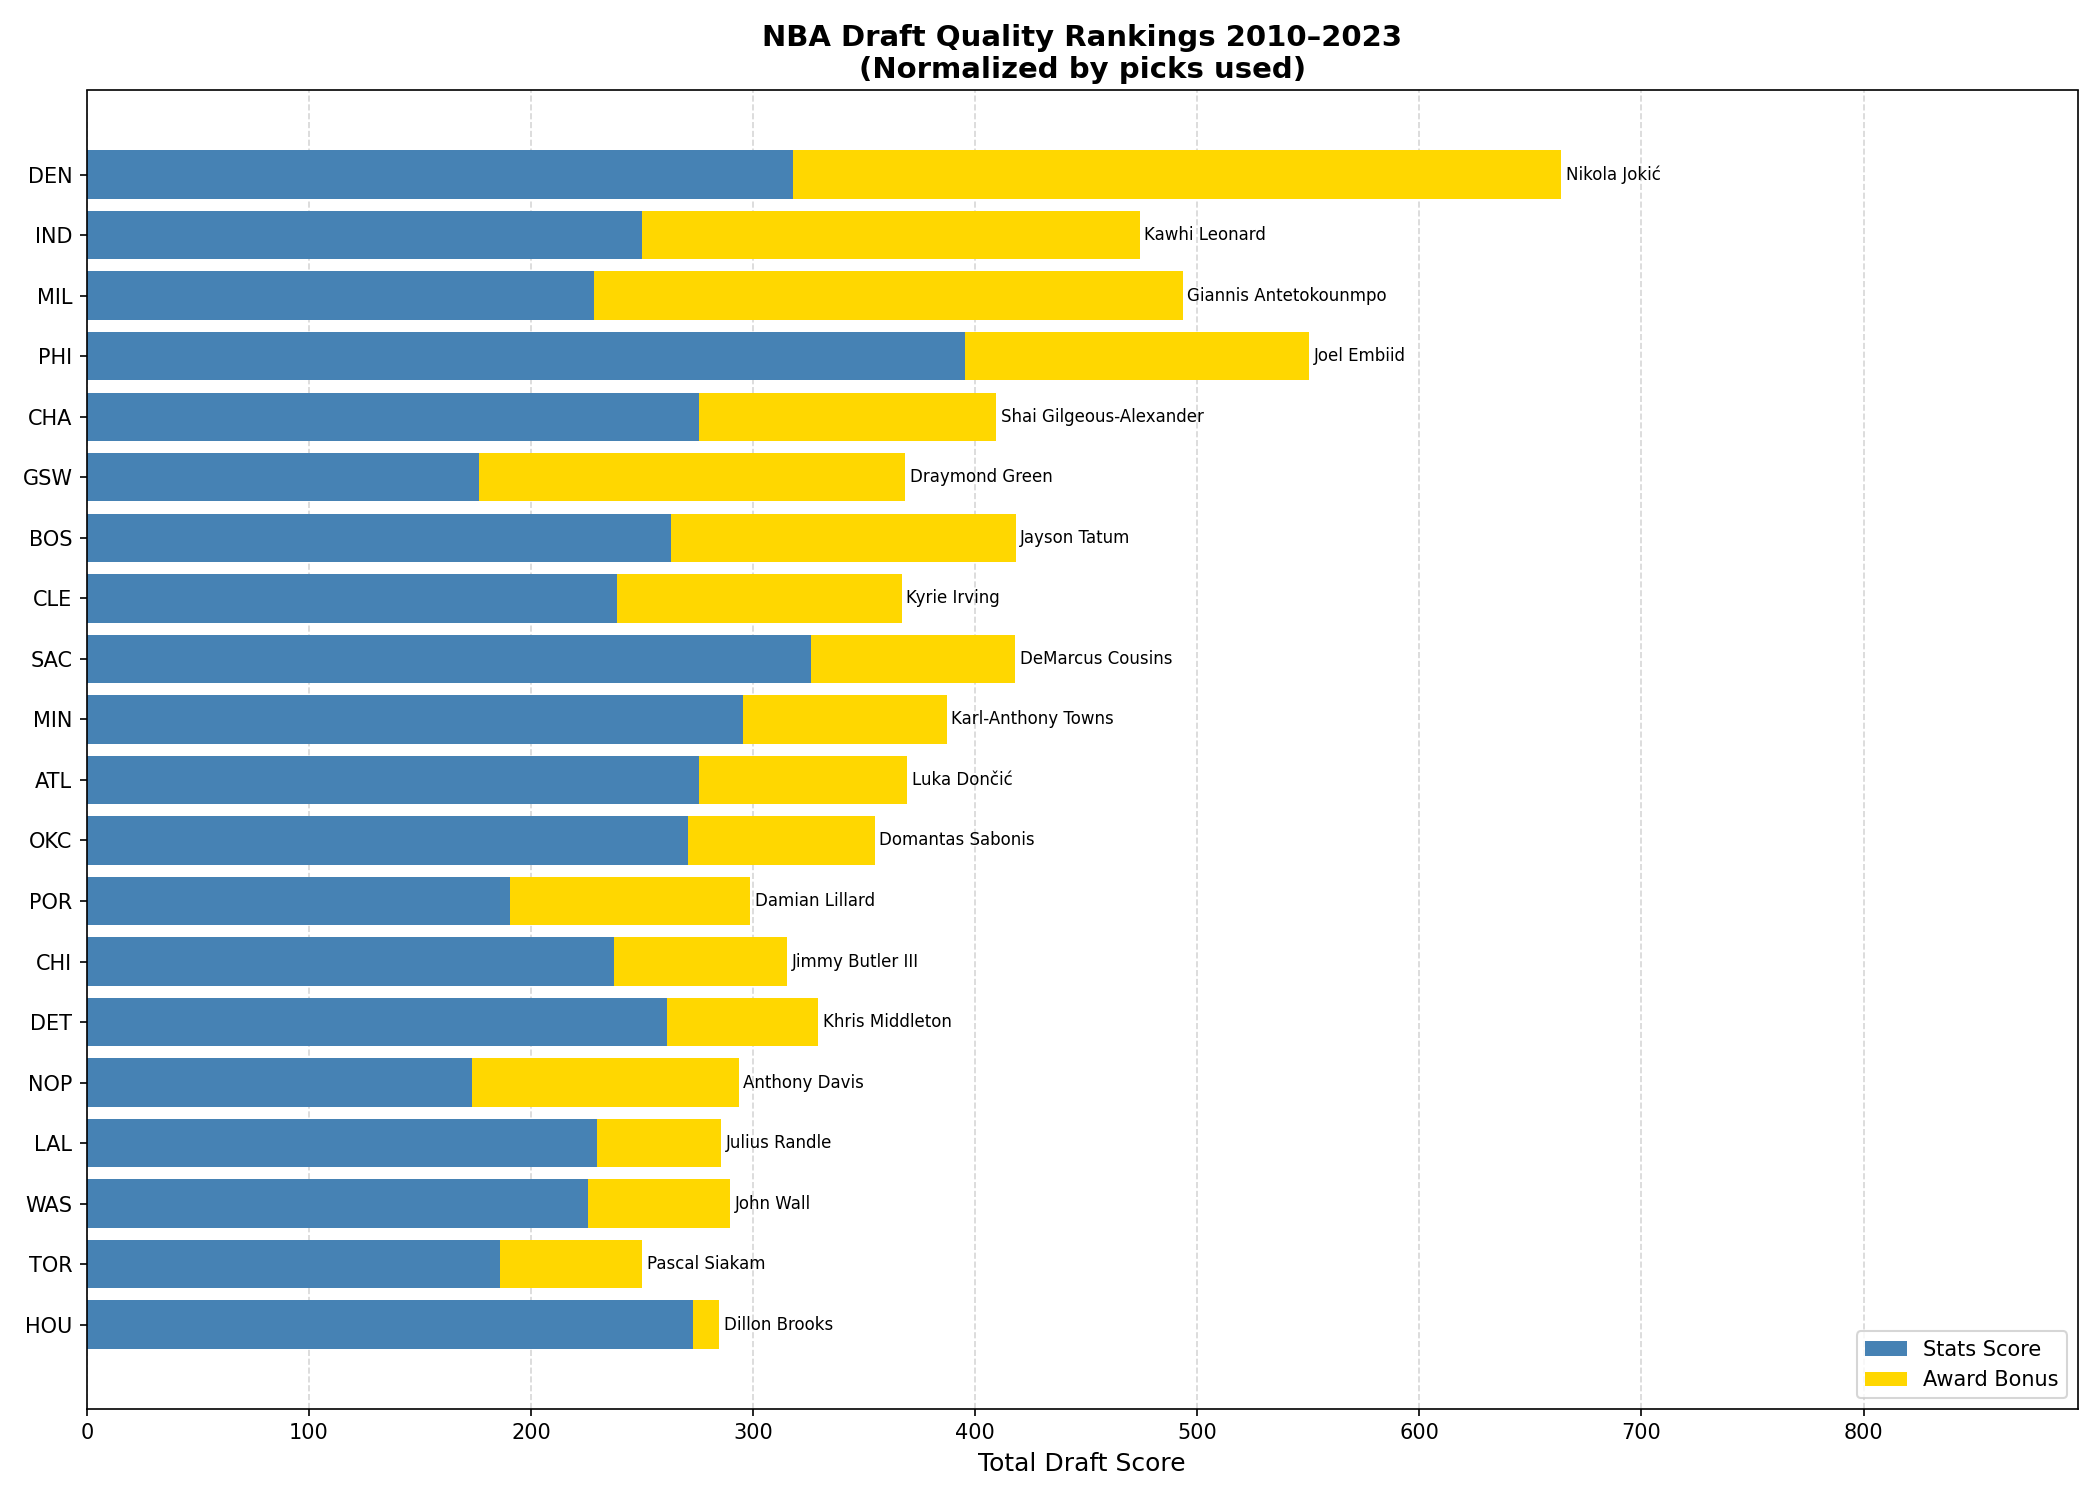
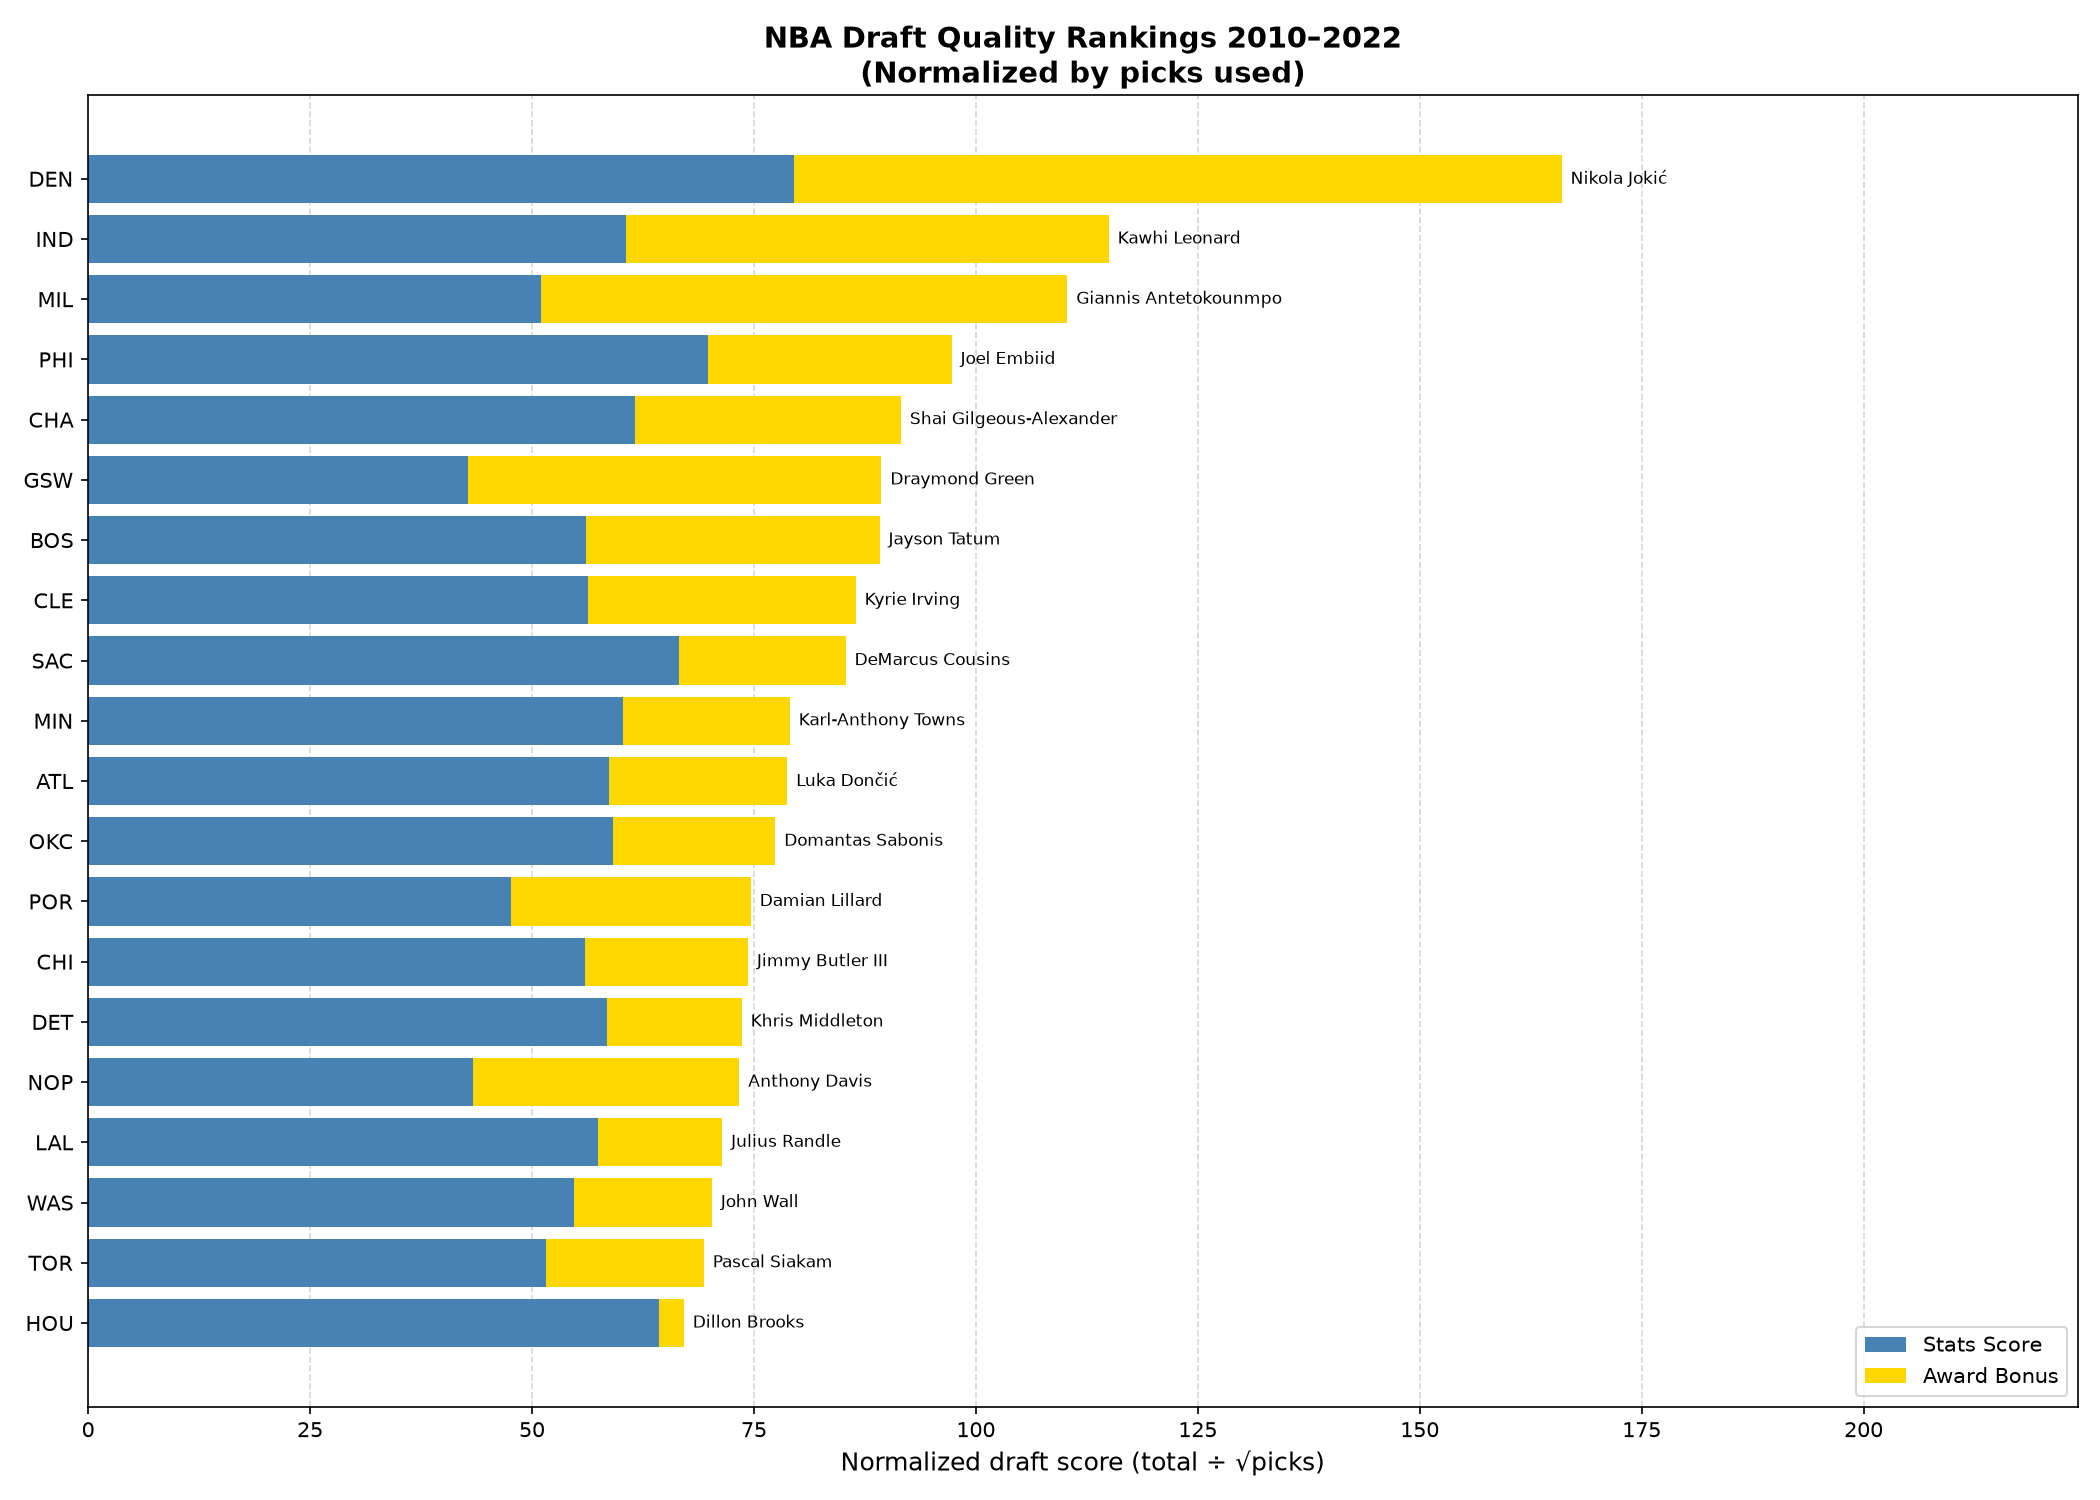
Fix chart scale, draft-year range, and silent award failures
- Chart now plots the normalized score the ranking is sorted by, so bar
  length matches rank order
- README and chart title say 2010-2022, matching the data actually pulled
- Award lookups retry with backoff; failures go to failed_awards.csv
  instead of silently scoring 0
- Replace leftover debug/duplicate run code with a main() entry point
- Rankings are unchanged

diff --git a/drafting.py b/drafting.py
@@ -1,21 +1,26 @@
-from nba_api.stats.endpoints import drafthistory, playercareerstats, playerawards
-import pandas as pd
+import os
 import time
 
 import matplotlib.pyplot as plt
-import matplotlib.patches as mpatches
 import numpy as np
+import pandas as pd
+
+# nba_api is imported inside the fetch functions, so the scoring and chart can be
+# rebuilt from the saved CSVs without it installed.
+
+FIRST_DRAFT, LAST_DRAFT = 2010, 2022  # inclusive
 
 
 def get_draft_history():
-    import os
     if os.path.exists('draft_history.csv'):
         print("Draft history already exists, loading from file...")
         return pd.read_csv('draft_history.csv')
 
+    from nba_api.stats.endpoints import drafthistory
+
     draft_data = []
 
-    for year in range(2010, 2023):
+    for year in range(FIRST_DRAFT, LAST_DRAFT + 1):
         print(f"Fetching draft history for year: {year}")
 
         draft = drafthistory.DraftHistory(league_id='00', season_year_nullable=year)
@@ -34,6 +39,8 @@ def get_draft_history():
     return full_draft
 
 def get_player_stats(person_id, player_name):
+    from nba_api.stats.endpoints import playercareerstats
+
     for attempt in range(3):  # try up to 3 times
         try:
             career = playercareerstats.PlayerCareerStats(player_id=person_id)
@@ -135,69 +142,72 @@ ALL_NBA_VALUES = {
 }
 
 def get_awards_for_player(person_id, player_name):
-    try:
-        awards_data = playerawards.PlayerAwards(player_id=person_id)
-        df = awards_data.get_data_frames()[0]
+    """Return the player's award bonus, or None if the API kept failing.
 
-        if df.empty:
-            return 0
+    None (not 0) matters: a failed request must not look like "no awards",
+    or the player is silently under-scored.
+    """
+    from nba_api.stats.endpoints import playerawards
 
-        total_bonus = 0
+    for attempt in range(3):
+        try:
+            df = playerawards.PlayerAwards(player_id=person_id).get_data_frames()[0]
+            break
+        except Exception as e:
+            print(f"  Attempt {attempt + 1} failed for {player_name}: {e}")
+            if attempt < 2:
+                time.sleep(2 ** (attempt + 1))  # 2s, then 4s
+    else:
+        return None
 
-        for _, award_row in df.iterrows():
-            description = award_row['DESCRIPTION']
+    total_bonus = 0
+    for _, award_row in df.iterrows():
+        description = award_row['DESCRIPTION']
+        if description == 'All-NBA':
+            # team number comes back as a string '1', '2', or '3'
+            try:
+                total_bonus += ALL_NBA_VALUES.get(int(award_row['ALL_NBA_TEAM_NUMBER']), 0)
+            except (ValueError, TypeError):
+                pass  # NaN or unparseable team number
+        elif description in AWARD_VALUES:
+            total_bonus += AWARD_VALUES[description]
+    return total_bonus
 
-            if description == 'All-NBA':
-                team_number = award_row['ALL_NBA_TEAM_NUMBER']
-                # team_number comes back as a string '1', '2', or '3'
-                # so we convert it to int before looking it up
-                try:
-                    bonus = ALL_NBA_VALUES.get(int(team_number), 0)
-                    total_bonus += bonus
-                except (ValueError, TypeError):
-                    pass  # skip if team_number is NaN or unparseable
 
-            elif description in AWARD_VALUES:
-                total_bonus += AWARD_VALUES[description]
-
-        return total_bonus
-
-    except Exception as e:
-        print(f"  Error fetching awards for {player_name}: {e}")
-        return 0
-
+def add_base_scores(df):
+    df['PER_GAME_SCORE']  = df['PTS_PER_G'] + (df['REB_PER_G'] * 0.7) + (df['AST_PER_G'] * 0.7)
+    df['DURABILITY']      = (df['GP'] / 500).clip(upper=1.0)
+    df['PICK_MULTIPLIER'] = 1 + (df['OVERALL_PICK'] - 1) / 59
+    df['DRAFT_SCORE']     = df['PER_GAME_SCORE'] * df['DURABILITY'] * df['PICK_MULTIPLIER']
+    return df
 
 
 def get_all_awards(stats_df):
     # Only fetch awards for players who actually had impact (saves ~400 API calls)
-    df = stats_df.copy()
-    df['PER_GAME_SCORE'] = df['PTS_PER_G'] + (df['REB_PER_G'] * 0.7) + (df['AST_PER_G'] * 0.7)
-    df['DURABILITY'] = (df['GP'] / 500).clip(upper=1.0)
-    df['PICK_MULTIPLIER'] = 1 + (df['OVERALL_PICK'] - 1) / 59
-    df['DRAFT_SCORE'] = df['PER_GAME_SCORE'] * df['DURABILITY'] * df['PICK_MULTIPLIER']
-
-    # Only bother checking awards for players with meaningful draft scores
-    worthy = df[df['DRAFT_SCORE'] >= 5.0].copy()
+    df = add_base_scores(stats_df.copy())
+    worthy = df[df['DRAFT_SCORE'] >= 5.0]
     print(f"Fetching awards for {len(worthy)} players with draft score >= 5...")
 
-    award_bonuses = {}
-
-    for i, row in worthy.iterrows():
-        print(f"  [{i}] {row['PLAYER_NAME']}...")
+    award_bonuses, failed = {}, []
+    for _, row in worthy.iterrows():
         bonus = get_awards_for_player(row['PERSON_ID'], row['PLAYER_NAME'])
-        if bonus > 0:
-            print(f"       -> {bonus} award points")
-        award_bonuses[row['PERSON_ID']] = bonus
+        if bonus is None:
+            failed.append({'PERSON_ID': row['PERSON_ID'], 'PLAYER_NAME': row['PLAYER_NAME']})
+        else:
+            award_bonuses[row['PERSON_ID']] = bonus
         time.sleep(0.8)
 
-    # Save so we don't have to re-fetch
-    awards_df = pd.DataFrame([
-        {'PERSON_ID': pid, 'AWARD_BONUS': bonus}
-        for pid, bonus in award_bonuses.items()
-    ])
+    awards_df = pd.DataFrame(
+        [{'PERSON_ID': pid, 'AWARD_BONUS': bonus} for pid, bonus in award_bonuses.items()]
+    )
     awards_df.to_csv('player_awards.csv', index=False)
     print(f"\nDone! Saved awards for {len(awards_df)} players.")
+
+    if failed:
+        pd.DataFrame(failed).to_csv('failed_awards.csv', index=False)
+        print(f"WARNING: {len(failed)} award lookups failed; see failed_awards.csv and re-run.")
     return awards_df
+
 
 def calculate_final_scores(stats_df, awards_df):
     df = stats_df.copy()
@@ -220,10 +230,7 @@ def calculate_final_scores(stats_df, awards_df):
     print(top_awards[['PLAYER_NAME', 'TEAM_ABBREVIATION', 'OVERALL_PICK', 'AWARD_BONUS']].head(20).to_string(index=False))
 
     # Scoring
-    df['PER_GAME_SCORE']  = df['PTS_PER_G'] + (df['REB_PER_G'] * 0.7) + (df['AST_PER_G'] * 0.7)
-    df['DURABILITY']      = (df['GP'] / 500).clip(upper=1.0)
-    df['PICK_MULTIPLIER'] = 1 + (df['OVERALL_PICK'] - 1) / 59
-    df['DRAFT_SCORE']     = df['PER_GAME_SCORE'] * df['DURABILITY'] * df['PICK_MULTIPLIER']
+    df = add_base_scores(df)
     df['TOTAL_SCORE']     = df['DRAFT_SCORE'] + df['AWARD_BONUS']
 
     # Aggregate by team
@@ -235,6 +242,8 @@ def calculate_final_scores(stats_df, awards_df):
         BEST_PLAYER        = ('TOTAL_SCORE',  lambda x: df.loc[x.idxmax(), 'PLAYER_NAME'])
     ).reset_index()
 
+    # Divide by sqrt(picks): a raw sum rewards teams that simply had more picks,
+    # a plain average rewards teams with a few lucky ones. sqrt is the middle ground.
     team_scores['NORMALIZED_SCORE'] = (
         team_scores['TOTAL_DRAFT_SCORE'] / team_scores['PLAYERS_DRAFTED'].pow(0.5)
     )
@@ -257,8 +266,11 @@ def visualize_rankings(team_scores):
     top20 = team_scores.head(20).copy()
     top20 = top20.iloc[::-1].reset_index(drop=True)
 
-    base_scores = top20['TOTAL_DRAFT_SCORE'] - top20['TOTAL_AWARD_POINTS']
-    award_scores = top20['TOTAL_AWARD_POINTS']
+    # Plot the same normalized score the ranking is sorted by, split into its
+    # stats and award parts (both divided by sqrt(picks)).
+    scale = top20['PLAYERS_DRAFTED'].pow(0.5)
+    base_scores = (top20['TOTAL_DRAFT_SCORE'] - top20['TOTAL_AWARD_POINTS']) / scale
+    award_scores = top20['TOTAL_AWARD_POINTS'] / scale
     teams = top20['TEAM_ABBREVIATION'].tolist()  # convert to plain list
     best_players = top20['BEST_PLAYER'].tolist()
 
@@ -269,45 +281,37 @@ def visualize_rankings(team_scores):
 
     for i, (base, award, player) in enumerate(zip(base_scores, award_scores, best_players)):
         total = base + award
-        ax.text(total + 2, i, player, va='center', fontsize=8, color='black')
+        ax.text(total + 1, i, player, va='center', fontsize=8, color='black')
 
     # Force linear scale and set team labels explicitly
     ax.set_yscale('linear')
     ax.set_yticks(y)
     ax.set_yticklabels(teams, fontsize=10)
-    ax.set_xlabel('Total Draft Score', fontsize=12)
-    ax.set_title('NBA Draft Quality Rankings 2010–2023\n(Normalized by picks used)', fontsize=14, fontweight='bold')
+    ax.set_xlabel('Normalized draft score (total ÷ √picks)', fontsize=12)
+    ax.set_title(f'NBA Draft Quality Rankings {FIRST_DRAFT}–{LAST_DRAFT}\n(Normalized by picks used)', fontsize=14, fontweight='bold')
     ax.legend(loc='lower right')
-    ax.set_xlim(0, top20['TOTAL_DRAFT_SCORE'].max() * 1.35)
+    ax.set_xlim(0, top20['NORMALIZED_SCORE'].max() * 1.35)
 
     ax.xaxis.grid(True, linestyle='--', alpha=0.5)
     ax.set_axisbelow(True)
 
     plt.tight_layout()
     plt.savefig('draft_rankings.png', dpi=150)
-    plt.show()
+    if plt.get_backend().lower() != 'agg':
+        plt.show()
     print("Chart saved to draft_rankings.png")
 
 
-import os
 
-stats_df = pd.read_csv('player_stats.csv')
-
-# Only fetch awards if file does not exist
-if not os.path.exists('player_awards.csv'):
-    print("Awards file not found — fetching from API...")
-    awards_df = get_all_awards(stats_df)
-else:
-    awards_df = pd.read_csv('player_awards.csv')
-
-player_df, team_scores = calculate_final_scores(stats_df, awards_df)
+def main():
+    draft_df = get_draft_history()
+    stats_df = (pd.read_csv('player_stats.csv') if os.path.exists('player_stats.csv')
+                else get_all_player_stats(draft_df))
+    awards_df = (pd.read_csv('player_awards.csv') if os.path.exists('player_awards.csv')
+                 else get_all_awards(stats_df))
+    _, team_scores = calculate_final_scores(stats_df, awards_df)
+    visualize_rankings(team_scores)
 
 
-stats_df = pd.read_csv('player_stats.csv')
-gobert = stats_df[stats_df['PLAYER_NAME'].str.contains('Gobert')]
-print(gobert[['PLAYER_NAME', 'TEAM_ABBREVIATION', 'OVERALL_PICK', 'SEASON']])
-
-stats_df  = pd.read_csv('player_stats.csv')
-awards_df = pd.read_csv('player_awards.csv')
-player_df, team_scores = calculate_final_scores(stats_df, awards_df)
-visualize_rankings(team_scores)
+if __name__ == '__main__':
+    main()

diff --git a/README.md b/README.md
@@ -1,5 +1,5 @@
-NBA Draft Quality Analysis (2010–2023)
-Ranks all 30 NBA teams by the quality of players they drafted between 2010 and 2023, using a composite scoring model built on career stats, pick position, and individual awards.
+NBA Draft Quality Analysis (2010–2022)
+Ranks all 30 NBA teams by the quality of players they drafted in the 2010 through 2022 drafts, using a composite scoring model built on career stats, pick position, and individual awards.
 
 Data Sources
 
@@ -31,8 +31,20 @@ All-NBA Third Team                4
 NBA Sixth Man of the Year         4
 NBA All-Star                      4
 
+Team Score
+Only players with at least 82 career games count. Each team's player scores are summed, then divided by the square root of the number of picks it used:
+normalized_score = total_score / sqrt(players_drafted)
+A raw sum rewards teams that simply had more picks; a plain average rewards teams with a few lucky picks. The square root is a middle ground. The chart plots this normalized score, split into its stats and award parts.
+
+Data Quality
+Requests are paced and retried with increasing waits, and stats are checkpointed to CSV after every player so an interrupted run resumes where it stopped. An award lookup that keeps failing is written to failed_awards.csv instead of being scored as zero awards, so a network error can't silently under-score a player.
+
+Running
+python drafting.py rebuilds the rankings and chart from the saved CSVs (nba_api is only needed to re-fetch data).
+
 Limitations
 Draft-night trades: Credit is given to the selecting team, not the team that ultimately developed the player. Kawhi Leonard (Indiana → San Antonio), Luka Dončić (Atlanta → Dallas), and Rudy Gobert (Denver → Utah) are all credited to their selecting franchise. This measures talent identification, not player development.
-Recent draft classes: Players from 2021–2023 have played 2–4 seasons at most. Their scores are systematically lower than those of veterans, which understates their eventual value. Rankings will shift as these players develop.
+Recent draft classes: Players from the 2020–2022 drafts have played only a few seasons. Their scores are systematically lower than those of veterans, which understates their eventual value. Rankings will shift as these players develop.
+Awards are voted, not measured: MVP, Most Improved, and the other awards are decided by media voters, so they include a human element (narrative, team record, voter fatigue). MVP is not a direct measure of the best player, and Most Improved rewards change rather than quality. Award bonuses are kept modest relative to the stats score for this reason.
 VORP approximation: True VORP (Basketball Reference) is not available via the NBA's API. The per_game_score metric is a proxy that correlates strongly with VORP but is not equivalent to it. It does not account for pace, usage rate, or position scarcity.
 Franchise continuity: Relocated teams are merged under their current abbreviation (e.g. NJN → BKN). Charlotte uses a single CHA abbreviation across both the Bobcats and Hornets eras.
